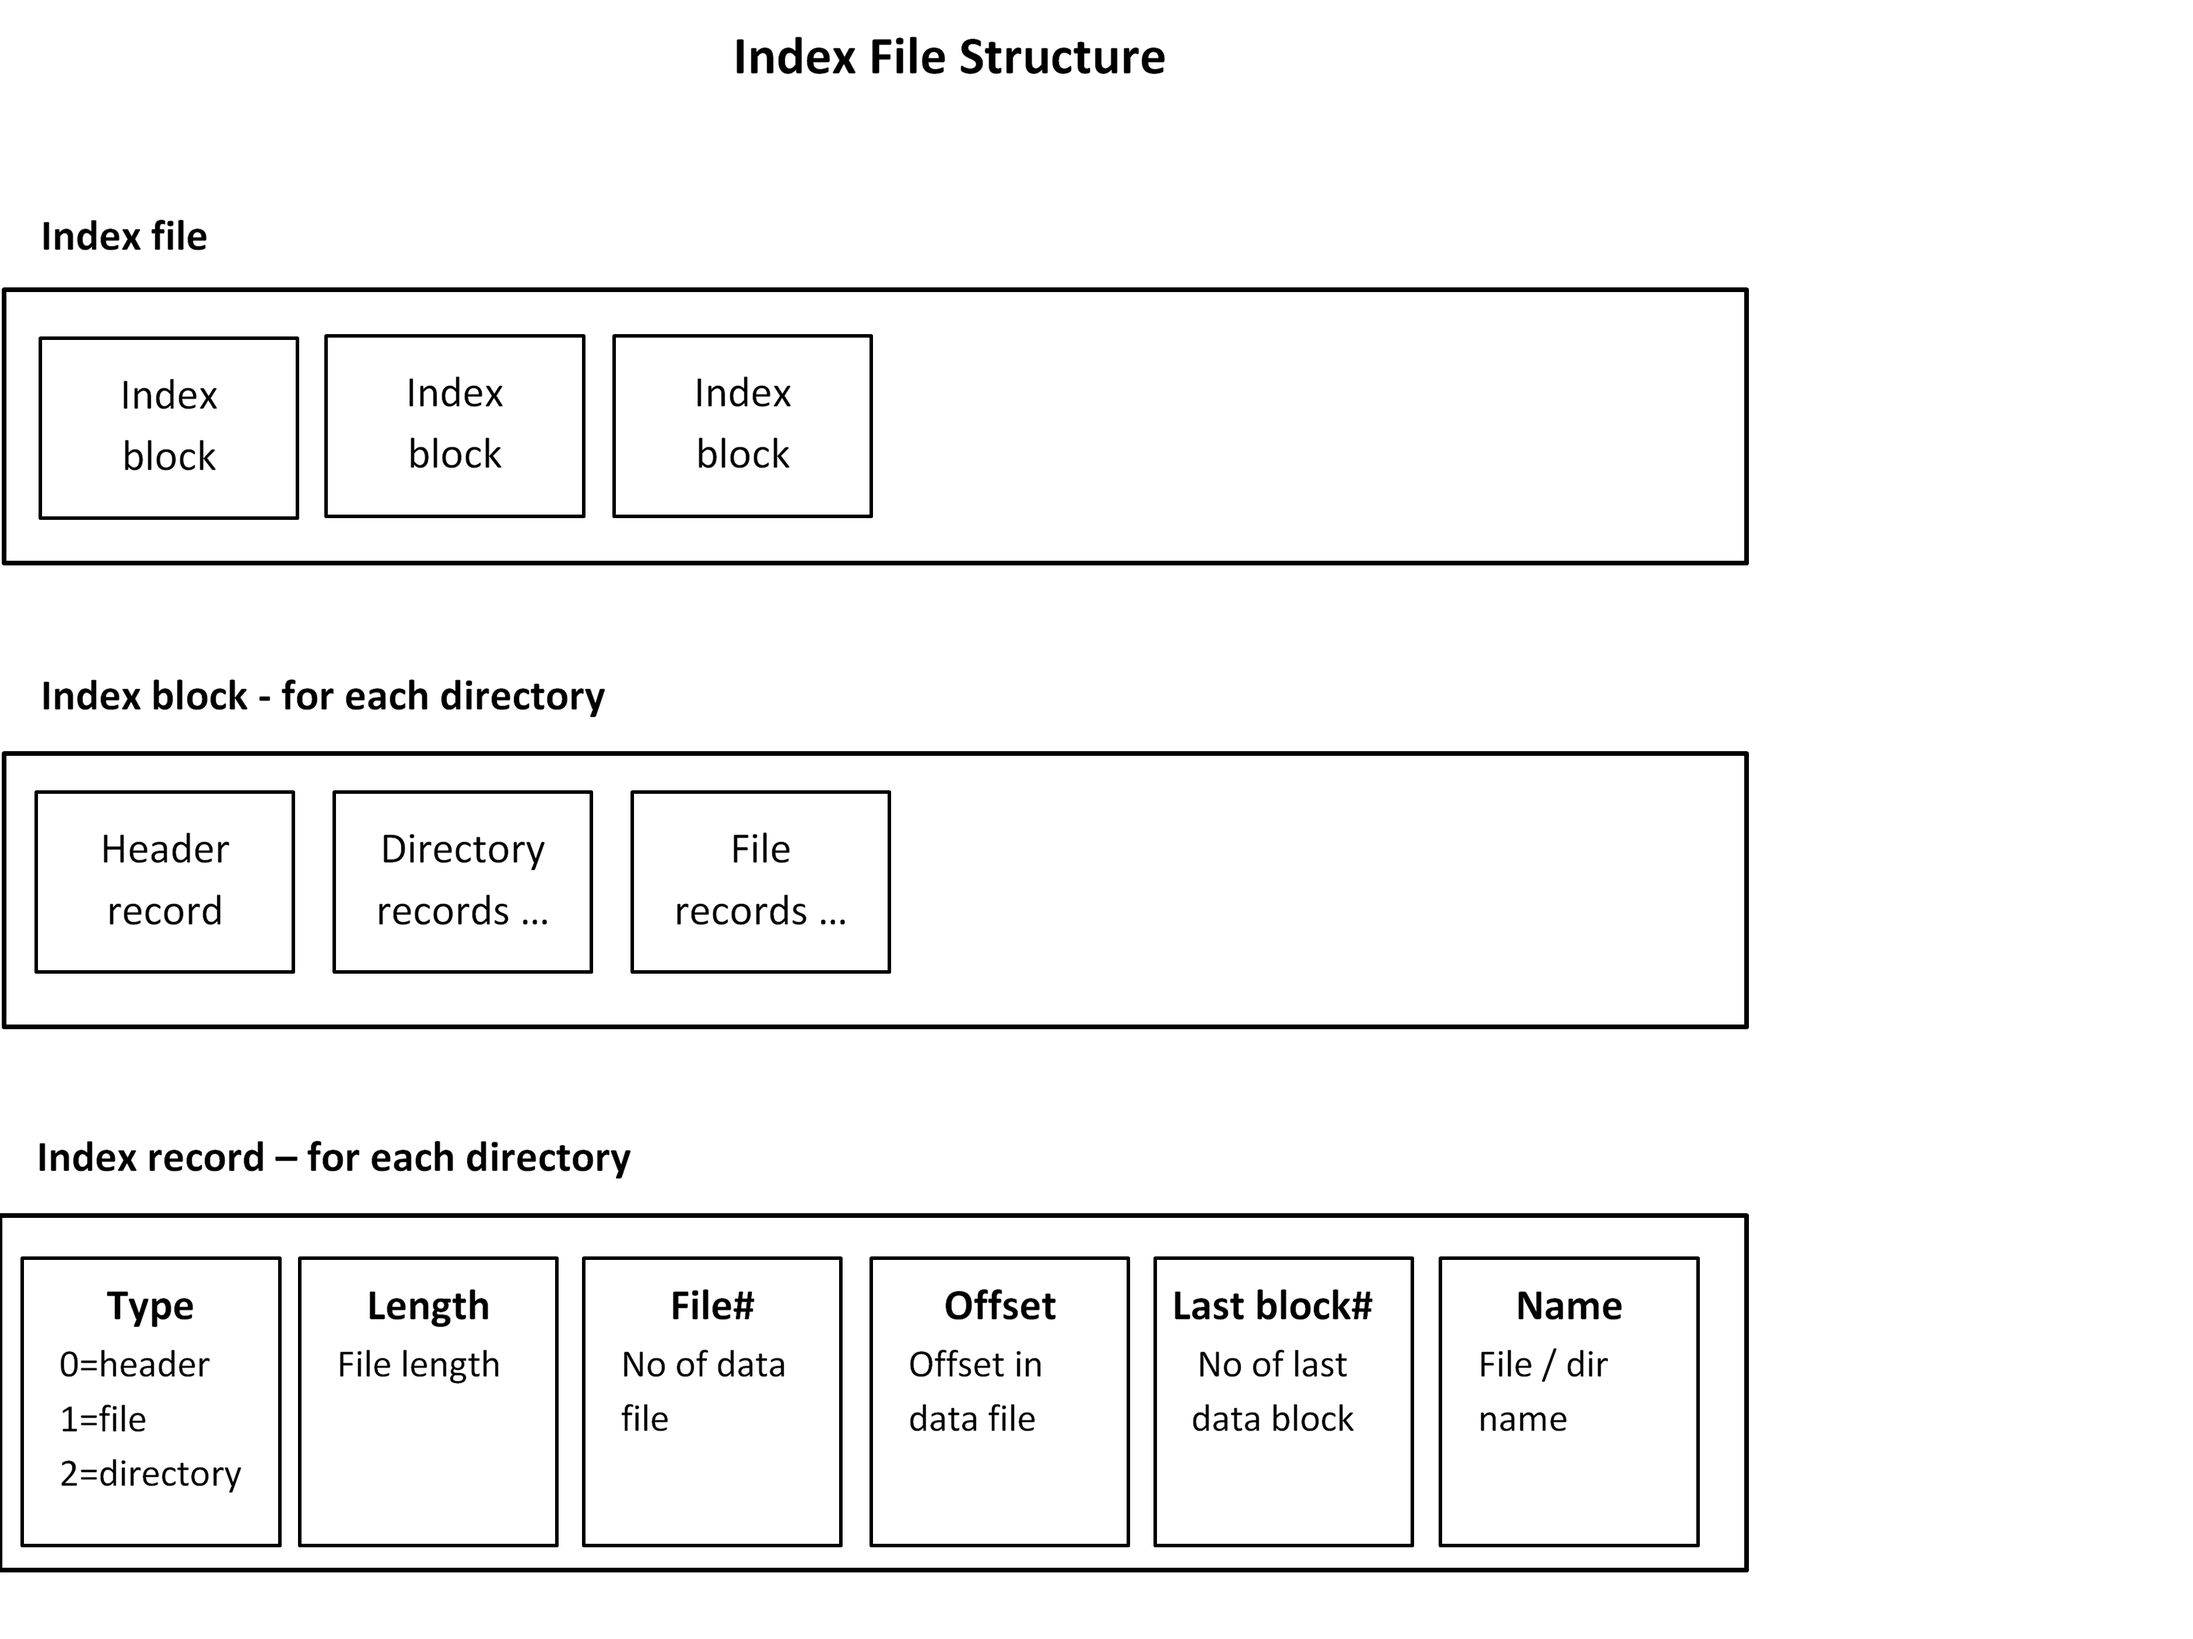
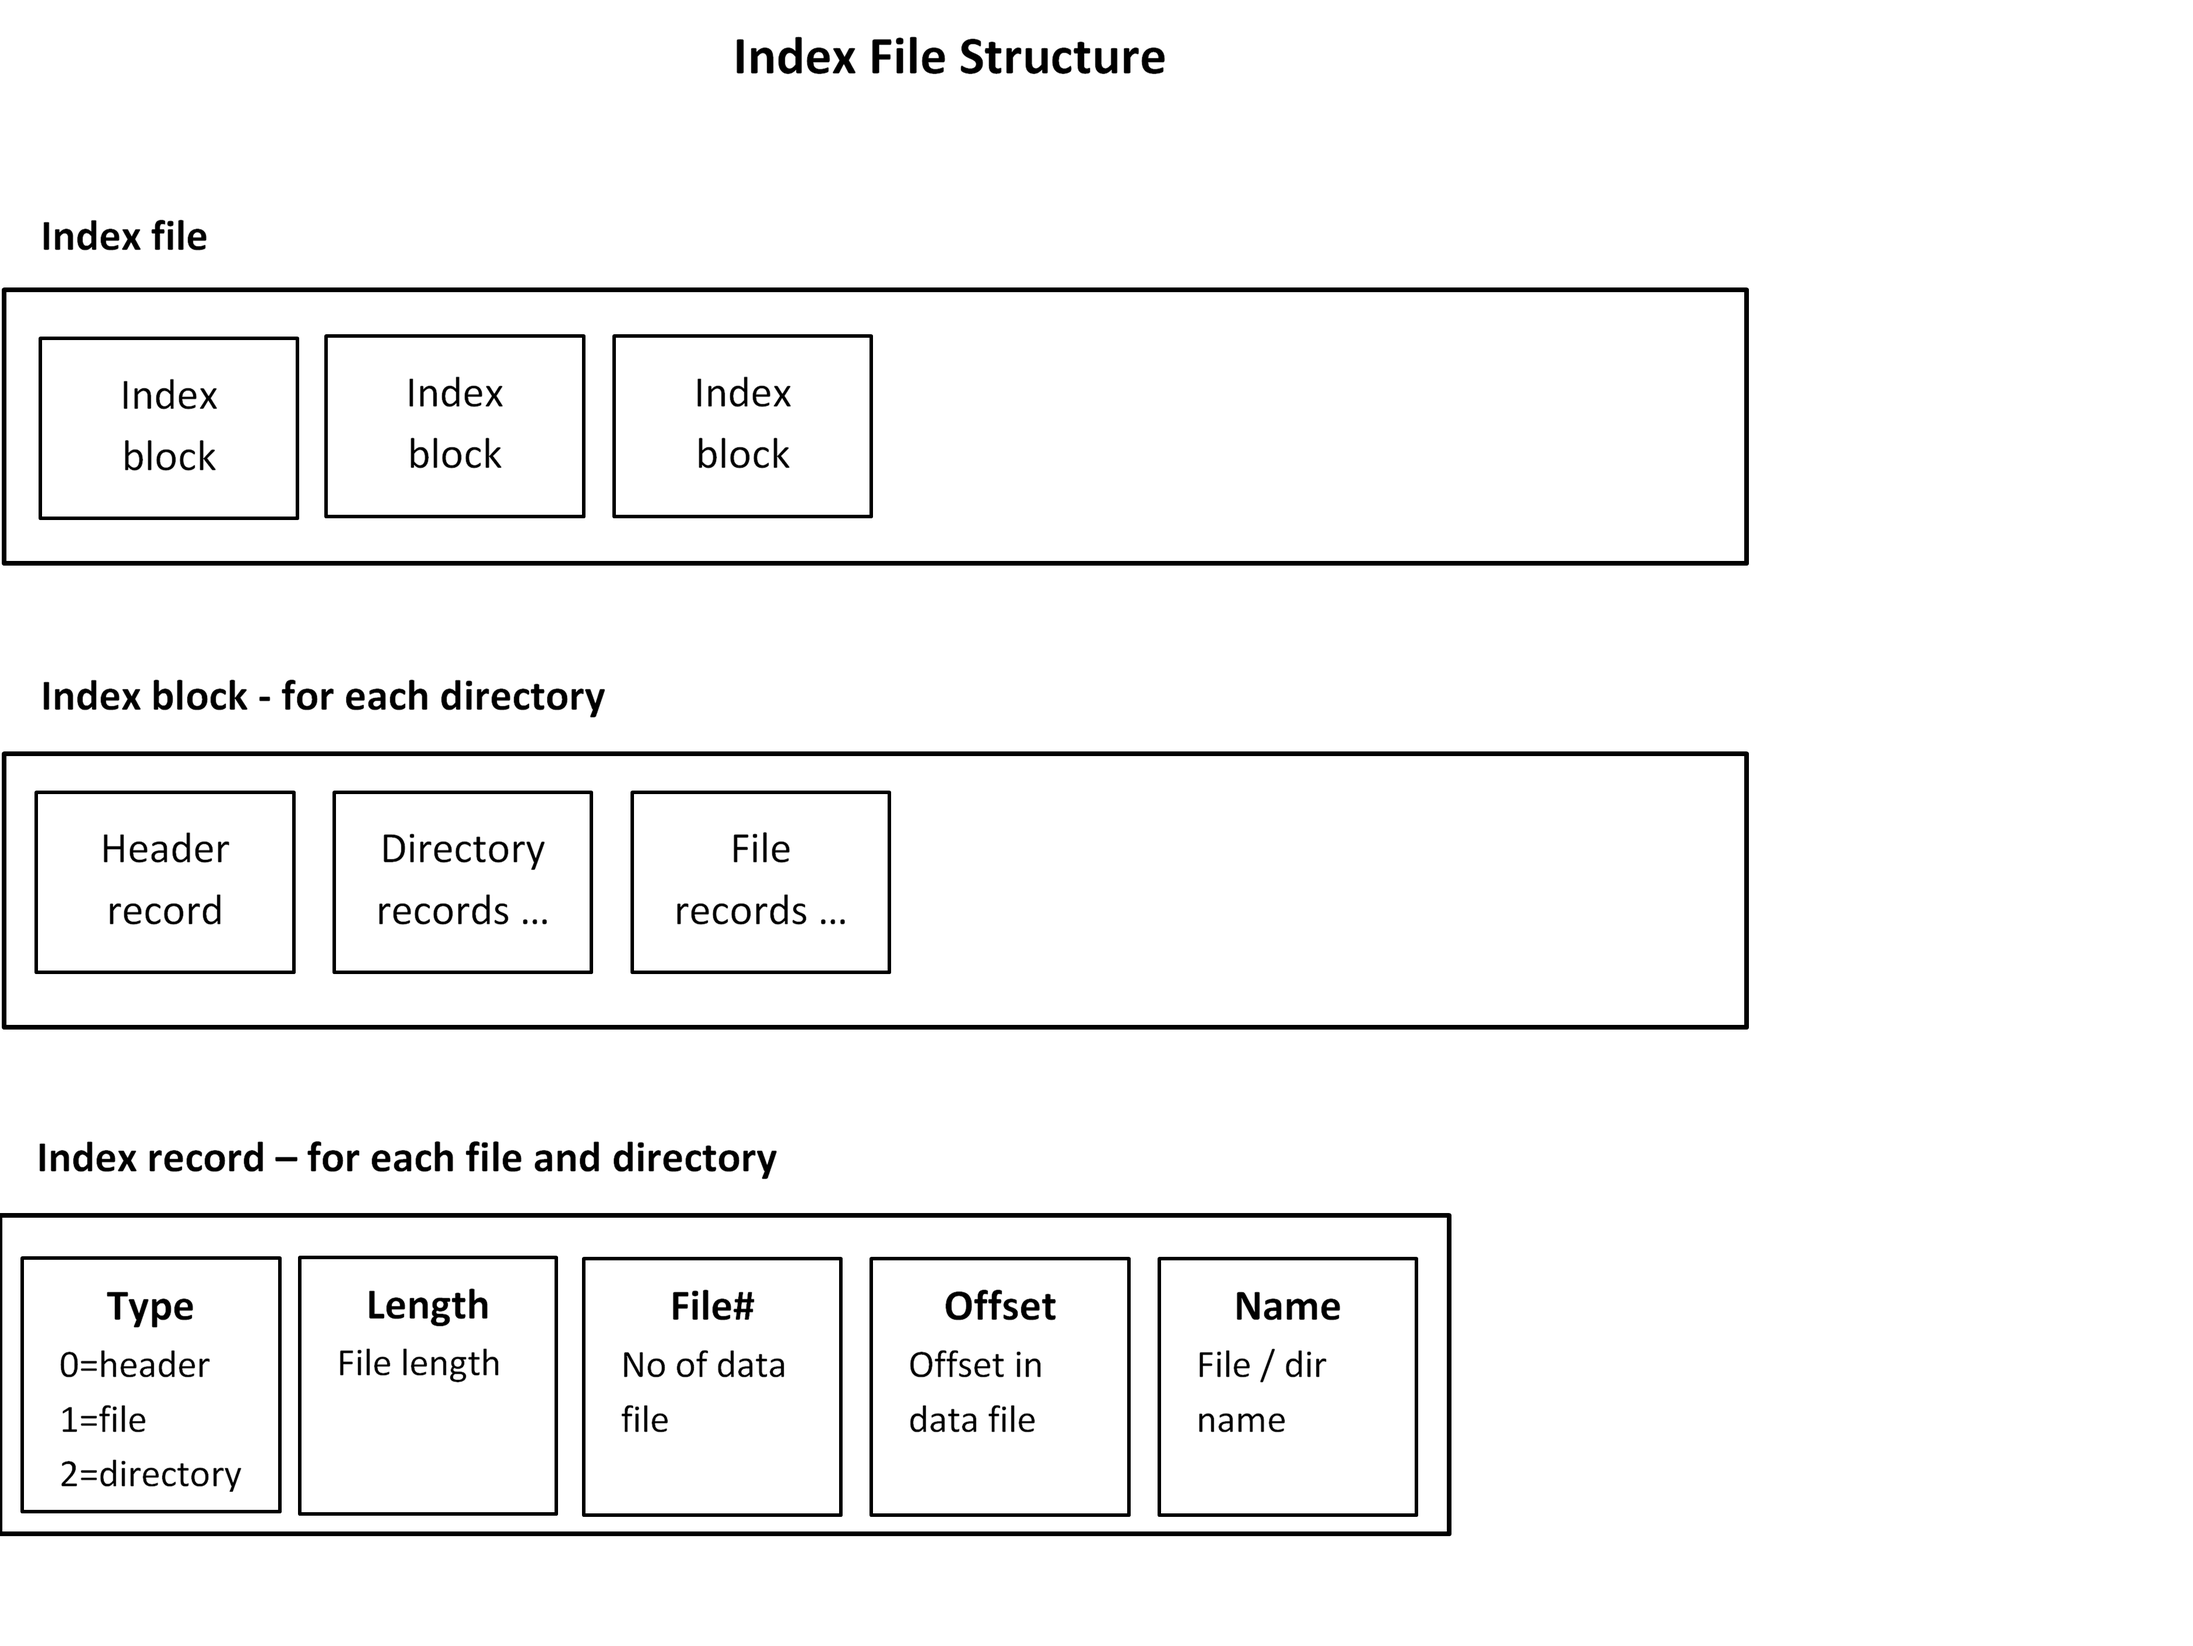
Remove last block#

diff --git a/src/FileBlocks.h b/src/FileBlocks.h
@@ -44,7 +44,7 @@ struct IndexRecord
     uint64_t fileNo; // will be used when the archives are split in several volumes, e.g of 4GB
     uint64_t offset; // offset of the first block in the compressed data file
     std::wstring name; // file / directory name
-    uint64_t done = false; // not stored, used only during compression
+    uint64_t done = false; // not stored, used only during compression, to be removed later
 
     void print(std::wostream& os) const;
     void read(std::wistream& is);
